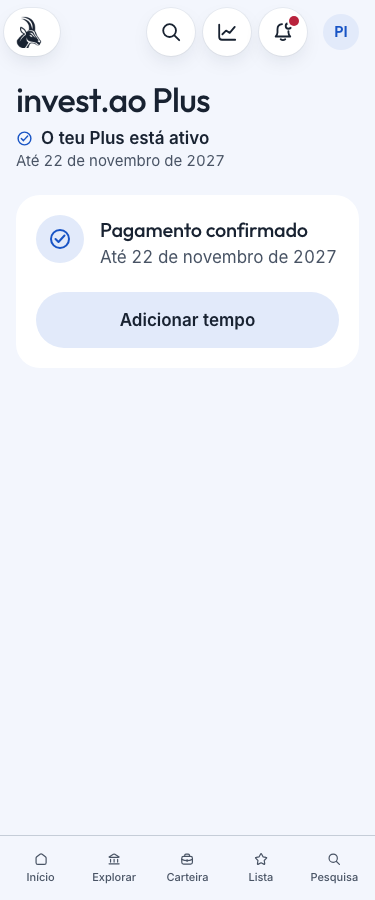
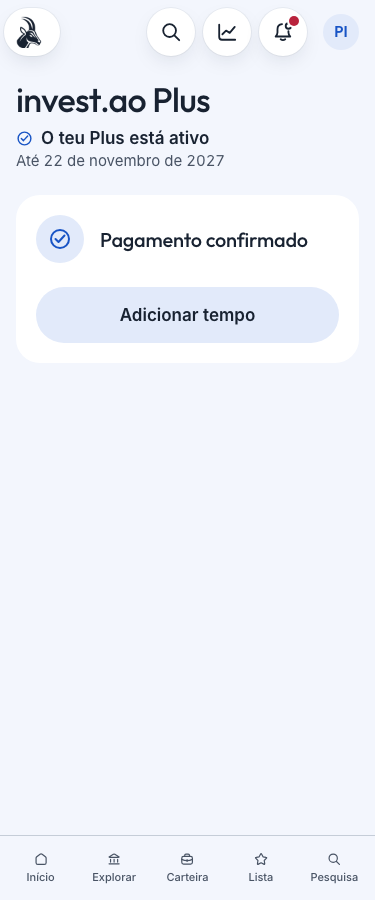
fix(billing): drop the repeated end date from the paid card
The status header above already shows until when Plus is active. The
paid announcement now reads the new status and its end date, so screen
readers still hear it.

Changed region(s): [[0.1173, 0.2489, 0.88, 0.4044]]

diff --git a/src/features/billing/order-views.tsx b/src/features/billing/order-views.tsx
@@ -12,7 +12,6 @@ import { useFormat } from "@/ui/format";
 import { Icon, type IconName } from "@/ui/icons/icon";
 
 import { AMOUNT_HERO } from "./checkout-form";
-import { passEndDate } from "./plan-status";
 
 /** Seconds left as `9:41`; never negative. */
 function countdown(milliseconds: number) {
@@ -142,23 +141,20 @@ const OUTCOME: Record<Exclude<WebOrderStatus, "pending">, { icon: IconName; tone
   refunded: { icon: "info", tone: "bg-secondary-text/12 text-secondary-text" },
 };
 
-/** How an order of this visit ended, and the one way on: add time after a payment, start again otherwise. */
+/** How an order of this visit ended, and the one way on: add time after a payment, start again otherwise. The pass's end date is in the status header above. */
 export function OrderOutcome({ order, onNext }: { order: WebOrder & { status: Exclude<WebOrderStatus, "pending"> }; onNext: () => void }) {
   const t = useTranslations();
-  const format = useFormat();
   const { icon, tone } = OUTCOME[order.status];
   const paid = order.status === "paid";
-  const until = paid && order.pass ? passEndDate(order.pass.endsAt, format) : null;
   return (
     <Card className="flex flex-col gap-6" data-testid="order-outcome" data-status={order.status}>
-      <div className="flex items-start gap-4">
+      <div className="flex items-center gap-4">
         <span className={cn("flex size-12 shrink-0 items-center justify-center rounded-full text-[1.5rem]", tone)}>
           <Icon name={icon} />
         </span>
-        <div className="flex min-w-0 flex-col gap-1 pt-0.5">
-          <h2 tabIndex={-1} className="text-section text-primary-text outline-none">{t(`site.plans.outcome.${order.status}`)}</h2>
-          {until ? <p className="text-body text-secondary-text">{t("site.plans.until", { date: until })}</p> : null}
-        </div>
+        <h2 tabIndex={-1} className="min-w-0 text-section text-primary-text outline-none">
+          {t(`site.plans.outcome.${order.status}`)}
+        </h2>
       </div>
       <Button kind={paid ? "secondary" : "primary"} onClick={onNext} className="sm:w-auto sm:self-start" data-testid="order-next">
         {t(paid ? "site.plans.addTime" : "site.plans.startAgain")}

diff --git a/src/features/billing/plans-view.tsx b/src/features/billing/plans-view.tsx
@@ -14,11 +14,12 @@ import { cn } from "@/ui/cn";
 import { Button } from "@/ui/components/buttons";
 import { Card, READING_COLUMN } from "@/ui/components/layout";
 import { ErrorState, FadeIn } from "@/ui/components/states";
+import { useFormat } from "@/ui/format";
 
 import { type CheckoutRequest, CheckoutForm } from "./checkout-form";
 import { CheckoutSkeleton } from "./checkout-skeleton";
 import { OrderOutcome, PendingExpress, PendingReference } from "./order-views";
-import { PlanStatus, isLifetimePlus } from "./plan-status";
+import { PlanStatus, isLifetimePlus, passEndDate } from "./plan-status";
 import { cancelWebOrder, readPlansPage, readWebOrder, startWebCheckout } from "./repository";
 import { useOrderPolling } from "./use-order-polling";
 
@@ -41,6 +42,7 @@ const FOCUS_TARGETS = ["h2[tabindex]", "[role=radio][aria-checked=true]", "butto
  */
 export function PlansView() {
   const t = useTranslations();
+  const format = useFormat();
   const account = useAccount();
   const userID = account?.userID ?? "";
   const access = account?.access ?? null;
@@ -114,10 +116,14 @@ export function PlansView() {
       setFailure(null);
       setOrder(next);
       if (shown?.id === next.id && shown.status === next.status) return;
-      announce(t(orderTitleKey(next)));
-      if (next.status === "paid") void refreshAccess();
+      const title = t(orderTitleKey(next));
+      if (next.status !== "paid") return announce(title);
+      // The card shows only the title; the header's new status and end date are read with it.
+      const until = next.pass ? t("site.plans.until", { date: passEndDate(next.pass.endsAt, format) }) : null;
+      announce([title, t("subscriptions.status.activeTitle"), until].filter(Boolean).join(". "));
+      void refreshAccess();
     },
-    [announce, refreshAccess, t],
+    [announce, format, refreshAccess, t],
   );
 
   useOrderPolling(order, userID, show);

diff --git a/tests/e2e/plans.spec.ts b/tests/e2e/plans.spec.ts
@@ -50,7 +50,9 @@ test("a Free member pays a pass with Multicaixa Express and becomes Plus", async
 
   await expect(page.getByTestId("order-outcome")).toHaveAttribute("data-status", "paid");
   await expect(page.getByRole("heading", { name: "Pagamento confirmado" })).toBeVisible();
-  await expect(page.getByRole("status").filter({ hasText: "Pagamento confirmado" })).toBeAttached();
+  // The card shows no date (the header does); the announcement still says until when.
+  await expect(page.getByTestId("order-outcome")).not.toContainText("Até");
+  await expect(page.getByRole("status").filter({ hasText: "Pagamento confirmado" })).toHaveText(/^Pagamento confirmado\. O teu Plus está ativo\. Até \d{1,2} de \S+ de \d{4}$/);
   await expect(page.getByTestId("plan-status")).toHaveAttribute("data-plan", "plus");
   await expect(page.getByTestId("plan-status")).toContainText("O teu Plus está ativo");
   await axe(page);
